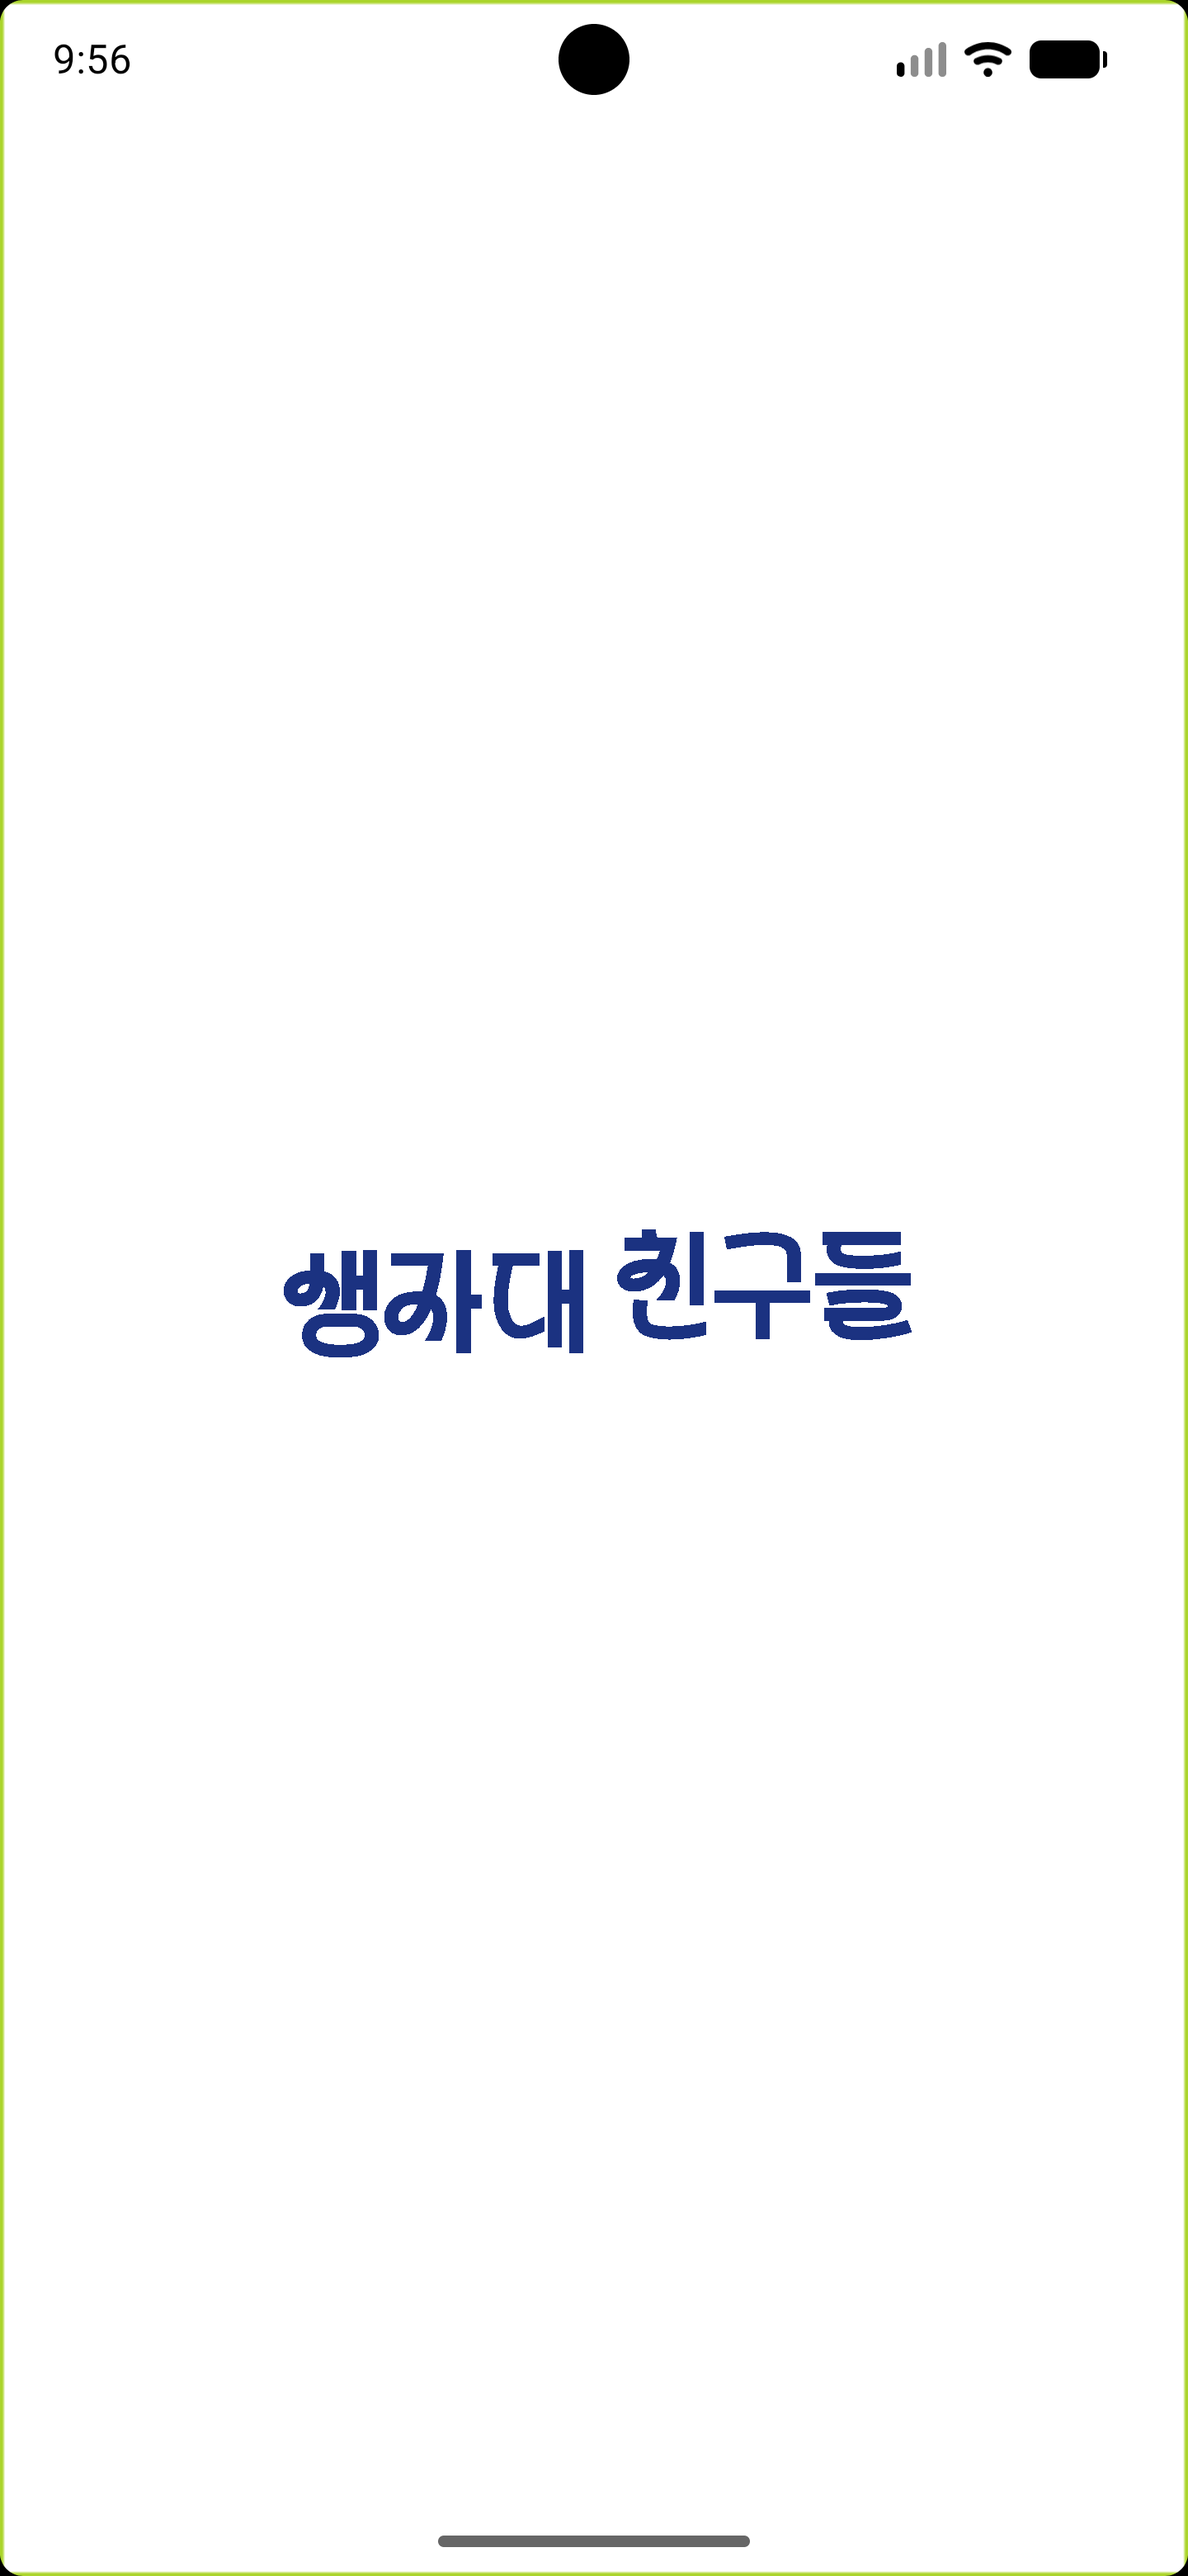
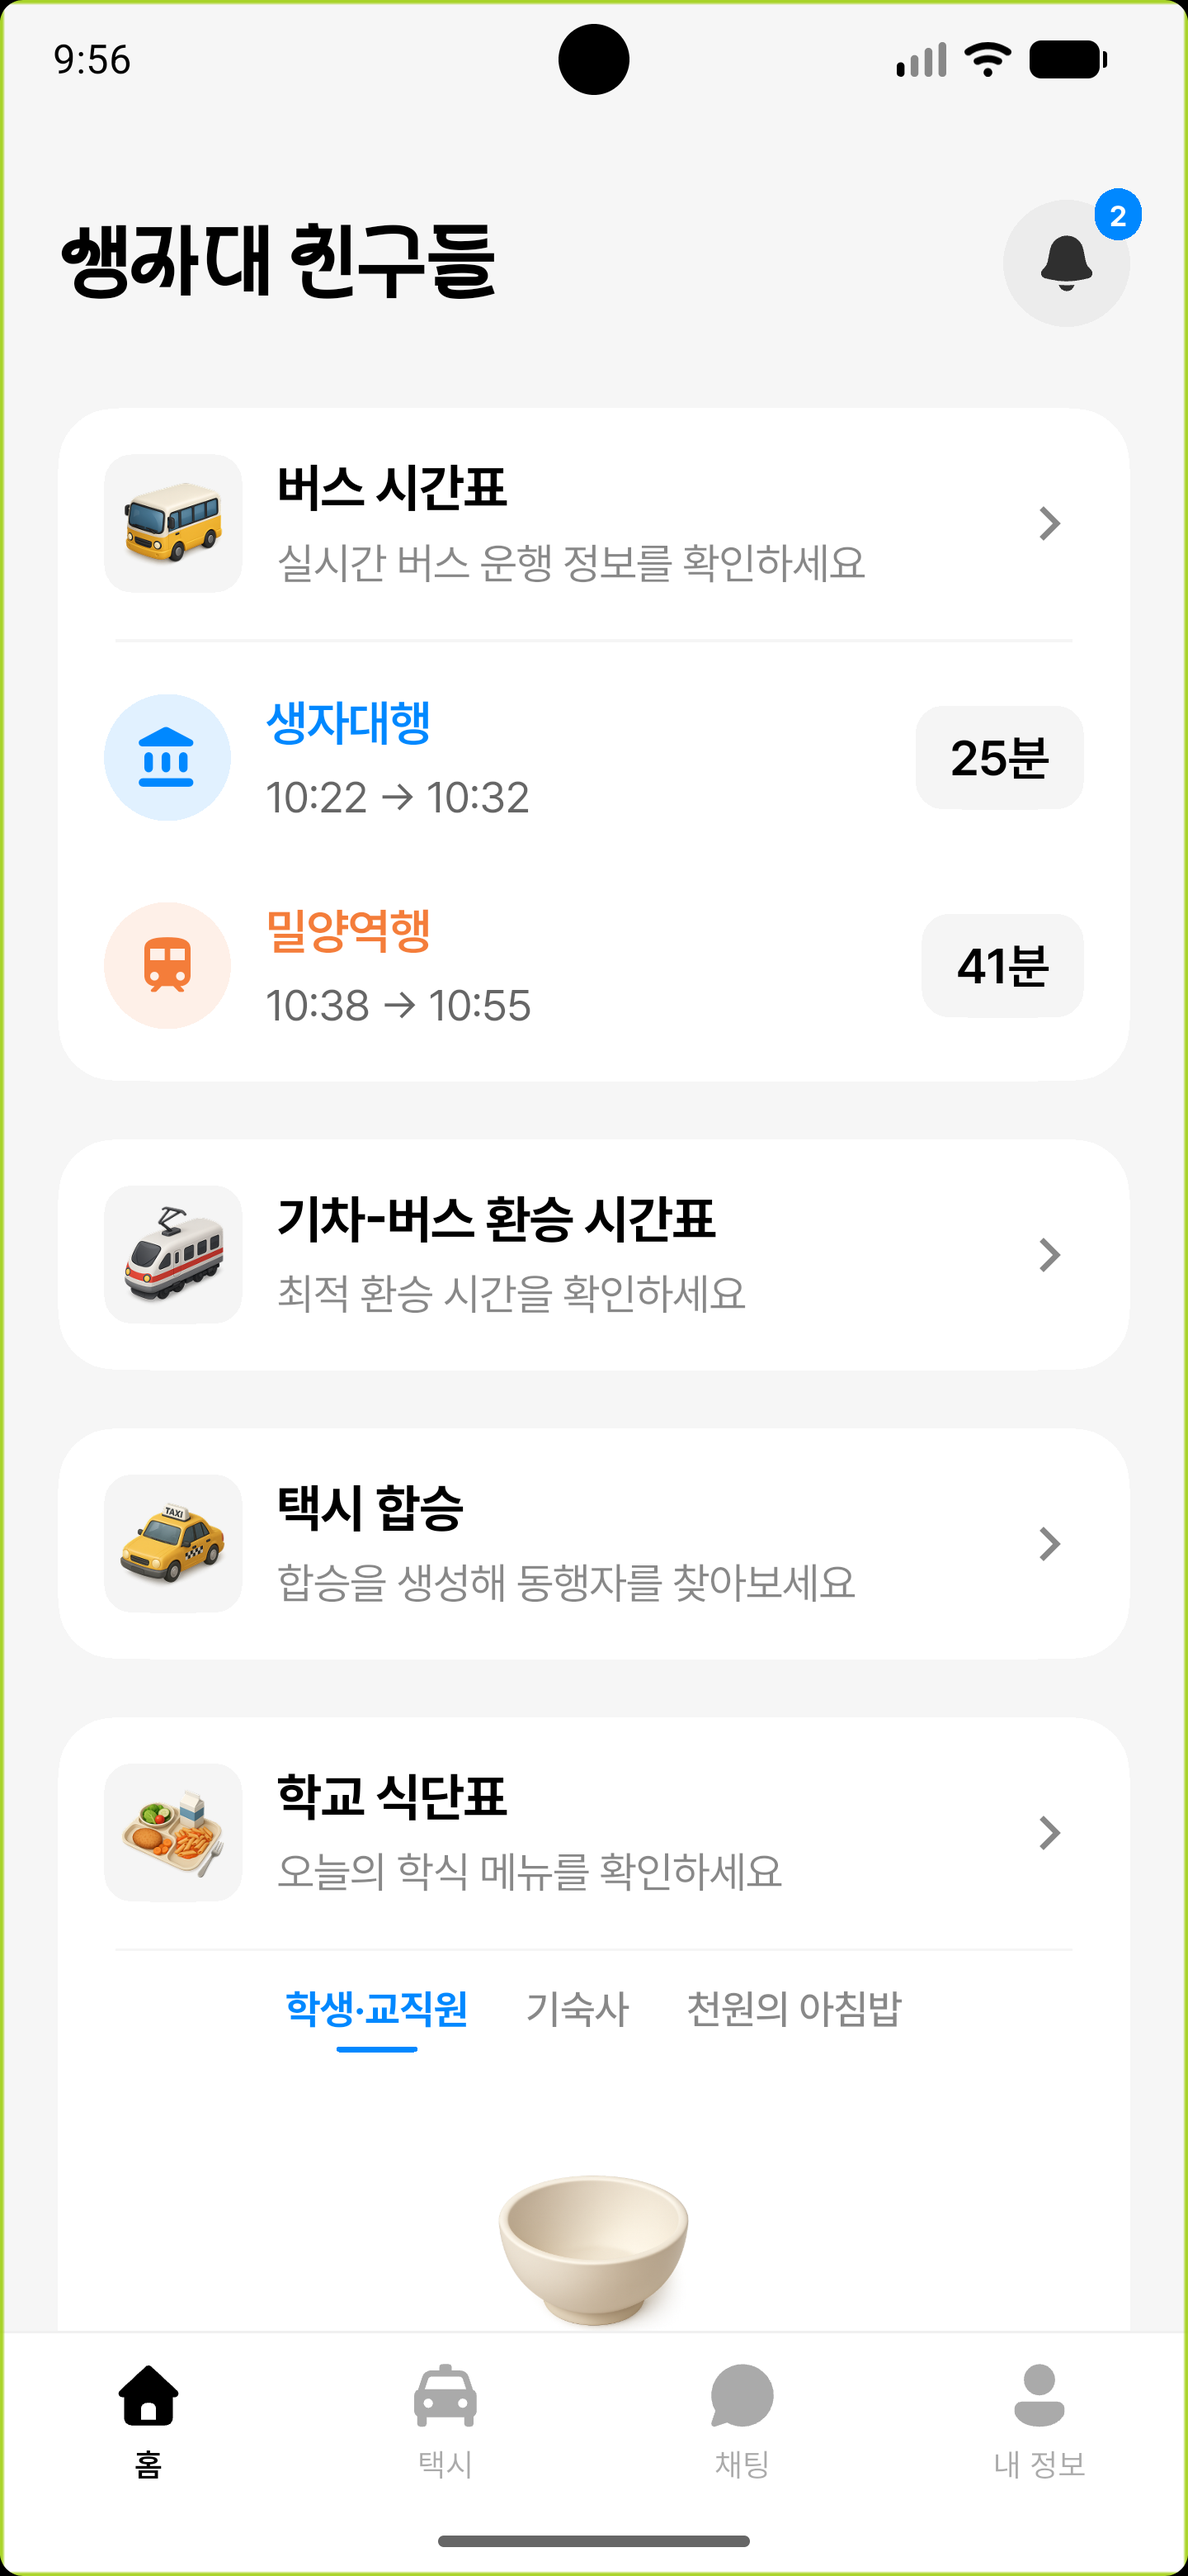
Update campus app preview images

diff --git a/assets/css/site.css b/assets/css/site.css
@@ -186,7 +186,7 @@
 
 /* Three-column project grid and cross-platform campus app project. */
 .research-project-grid{grid-template-columns:repeat(3,minmax(0,1fr))}
-.campus-app-card-visual{display:grid;grid-template-columns:repeat(3,minmax(0,1fr));gap:7px;width:100%;height:155px;overflow:hidden;background:#f8fafc;padding:8px;border-radius:5px}
+.campus-app-card-visual{display:grid;grid-template-columns:repeat(2,minmax(0,1fr));gap:7px;width:100%;height:155px;overflow:hidden;background:#f8fafc;padding:8px;border-radius:5px}
 .research-project-grid .research-thumb .campus-app-card-visual img{width:100%;height:139px;max-height:139px;object-fit:cover;object-position:top;border-radius:4px;box-shadow:0 1px 5px #0f172a20}
 .campus-app-gallery{display:grid;grid-template-columns:repeat(4,minmax(0,1fr));gap:20px;margin:26px 0 38px}
 .campus-app-gallery figure{margin:0;min-width:0}

diff --git a/index.md b/index.md
@@ -9,7 +9,7 @@ description: "Personal Website"
 <div class="home-shell">
 <table class="profile-table" role="presentation"><tbody><tr><td class="profile-copy"><h1 class="name">Seokyung Park</h1><p>I am an M.S. student in <strong>Bio-Industrial Machinery Engineering</strong> at <a href="https://www.pusan.ac.kr/eng/Main.do">Pusan National University</a>, working in the <a href="https://pass.pusan.ac.kr/">Precision Agriculture and Smart Sensing System Lab.</a> I expect to graduate in <strong>February 2027</strong>. I received my B.S. in <strong>Plant Bioscience</strong>, with a minor in <strong>Bio-Industrial Machinery Engineering</strong>, from Pusan National University in 2025.</p><p>My research focuses on <strong>image-based analysis and sensing for agricultural applications</strong>, with my <strong>M.S. thesis research in plant phenotyping</strong> connecting UAV canopy maps with close-range observations of soybean plants and pods. My current work includes hyperspectral assessment of tomato damage and spatial analysis of greenhouse environmental measurements. I also have hands-on experience integrating <strong>sensors and data acquisition with robotic systems</strong>, including robotic grippers and quadruped platforms. Building on these skills, I aim to use imaging and sensing data to quantify crop traits and study their relationships with growing conditions.</p><div class="profile-text-links"><p><strong>Curriculum Vitae:</strong> <a href="/assets/documents/Seokyung_Park_CV.pdf" download="Seokyung_Park_CV.pdf">Download</a></p><p>🎓 <a href="https://scholar.google.com/citations?user=q-XZT6gAAAAJ&amp;hl=ko&amp;oi=ao" target="_blank" rel="noopener">Google Scholar</a></p><p>✉ <a href="mailto:seokyung.park@pusan.ac.kr">seokyung.park@pusan.ac.kr</a></p></div></td><td class="profile-photo-cell"><a href="/assets/images/seokyung-park-portrait.jpg?v=20261014"><img class="profile-portrait profile-portrait-outdoors" src="/assets/images/seokyung-park-portrait.jpg?v=20261014" alt="Portrait of Seokyung Park" width="552" height="659" fetchpriority="high"></a></td></tr></tbody></table>
 </div><div class="home-research-band"><div class="home-shell">
-<section id="research"><h2>Research Projects</h2><p>I develop and evaluate sensing systems for crops, field environments and agricultural structures. The projects below combine experimental measurements with data analysis and physical modelling.</p><div class="research-project-grid" aria-label="Research projects"><article class="research-project-card"><div class="research-thumb"><a href="/research/quadruped-research/"><img src="/assets/images/greenhouse-sensing-platform.png" alt="Quadruped robot with sensors at two canopy heights" loading="lazy"></a></div><div class="research-summary"><h3><a class="papertitle" href="/research/quadruped-research/">01. Quadruped robots for agricultural sensing</a></h3><p>① <a href="/research/quadruped-research/#greenhouse">greenhouse</a><br>② <a href="/research/quadruped-research/#reservoir">reservoirs</a><br>③ <a href="/research/quadruped-research/#phenotyping">phenotyping (M.S. Thesis Research)</a></p><p>Quadruped sensing for greenhouse mapping and reservoir surveys, with M.S. thesis research on multi-scale soybean phenotyping using UAV imagery and ground RGB-D observations.</p></div></article><article class="research-project-card"><div class="research-thumb"><a href="/research/robotic-harvesting/"><img src="/assets/images/tomato-platform-compression.png" alt="Experimental platform with real-time force sensing and representative compression traces for S3, S5, S7 and S9" loading="lazy"></a></div><div class="research-summary"><h3><a class="papertitle" href="/research/robotic-harvesting/">02. Speed-Dependent Control of Robotic Gripper for Tomato Harvesting to Minimise Compression-Induced Damage</a></h3><p>Investigating how gripping speed affects delayed tomato damage using force measurements and hyperspectral imaging.</p></div></article><article class="research-project-card"><div class="research-thumb"><a href="/research/airdome-foundation/"><img src="/assets/images/soil-plastic-zones.png" alt="Figure 5: soil plastic zones for different X-Pile wing lengths" loading="lazy"></a></div><div class="research-summary"><h3><a class="papertitle" href="/research/airdome-foundation/">03. Analysis of uplift resistance characteristics of expandable piles in sandy soil with varying wing inclination and dimensions</a></h3><p>Using finite-element simulations to evaluate how wing length and angle affect pile uplift resistance in sandy soil.</p></div></article><article class="research-project-card"><div class="research-thumb"><a href="/research/airdome-sensing/"><span class="sensing-card-visual"><img src="/assets/images/airdome-system-figure.png" alt="Sensor placement concept" loading="lazy"><img src="/assets/images/field-load-cell.jpg" alt="Actual load-cell installation" loading="lazy"></span></a></div><div class="research-summary"><h3><a class="papertitle" href="/research/airdome-sensing/">04. Load-cell sensing for air-supported domes</a></h3><p>Measuring air-dome cable tension with load cells and recording field data using a SBC board.</p></div></article><article class="research-project-card"><div class="research-thumb"><a href="/research/campus-app-development/"><span class="campus-app-card-visual"><img src="/assets/images/campus-app/home.png" alt="Campus mobility app home screen" loading="lazy"><img src="/assets/images/campus-app/transfer-planner.png" alt="Train and campus bus transfer planner" loading="lazy"><img src="/assets/images/campus-app/taxi-sharing.png" alt="Taxi ride-sharing screen" loading="lazy"></span></a></div><div class="research-summary"><h3><a class="papertitle" href="/research/campus-app-development/">05. Campus mobility, ride-sharing and dining app development</a></h3><p>Designed and developed a cross-platform student app that combines bus and train transfer planning, real-time taxi sharing, chat, fare settlement and campus dining information.</p></div></article></div></section>
+<section id="research"><h2>Research Projects</h2><p>I develop and evaluate sensing systems for crops, field environments and agricultural structures. The projects below combine experimental measurements with data analysis and physical modelling.</p><div class="research-project-grid" aria-label="Research projects"><article class="research-project-card"><div class="research-thumb"><a href="/research/quadruped-research/"><img src="/assets/images/greenhouse-sensing-platform.png" alt="Quadruped robot with sensors at two canopy heights" loading="lazy"></a></div><div class="research-summary"><h3><a class="papertitle" href="/research/quadruped-research/">01. Quadruped robots for agricultural sensing</a></h3><p>① <a href="/research/quadruped-research/#greenhouse">greenhouse</a><br>② <a href="/research/quadruped-research/#reservoir">reservoirs</a><br>③ <a href="/research/quadruped-research/#phenotyping">phenotyping (M.S. Thesis Research)</a></p><p>Quadruped sensing for greenhouse mapping and reservoir surveys, with M.S. thesis research on multi-scale soybean phenotyping using UAV imagery and ground RGB-D observations.</p></div></article><article class="research-project-card"><div class="research-thumb"><a href="/research/robotic-harvesting/"><img src="/assets/images/tomato-platform-compression.png" alt="Experimental platform with real-time force sensing and representative compression traces for S3, S5, S7 and S9" loading="lazy"></a></div><div class="research-summary"><h3><a class="papertitle" href="/research/robotic-harvesting/">02. Speed-Dependent Control of Robotic Gripper for Tomato Harvesting to Minimise Compression-Induced Damage</a></h3><p>Investigating how gripping speed affects delayed tomato damage using force measurements and hyperspectral imaging.</p></div></article><article class="research-project-card"><div class="research-thumb"><a href="/research/airdome-foundation/"><img src="/assets/images/soil-plastic-zones.png" alt="Figure 5: soil plastic zones for different X-Pile wing lengths" loading="lazy"></a></div><div class="research-summary"><h3><a class="papertitle" href="/research/airdome-foundation/">03. Analysis of uplift resistance characteristics of expandable piles in sandy soil with varying wing inclination and dimensions</a></h3><p>Using finite-element simulations to evaluate how wing length and angle affect pile uplift resistance in sandy soil.</p></div></article><article class="research-project-card"><div class="research-thumb"><a href="/research/airdome-sensing/"><span class="sensing-card-visual"><img src="/assets/images/airdome-system-figure.png" alt="Sensor placement concept" loading="lazy"><img src="/assets/images/field-load-cell.jpg" alt="Actual load-cell installation" loading="lazy"></span></a></div><div class="research-summary"><h3><a class="papertitle" href="/research/airdome-sensing/">04. Load-cell sensing for air-supported domes</a></h3><p>Measuring air-dome cable tension with load cells and recording field data using a SBC board.</p></div></article><article class="research-project-card"><div class="research-thumb"><a href="/research/campus-app-development/"><span class="campus-app-card-visual"><img src="/assets/images/campus-app/home.png" alt="Campus app home screen" loading="lazy"><img src="/assets/images/campus-app/bus-timetable.png" alt="Campus bus timetable screen" loading="lazy"></span></a></div><div class="research-summary"><h3><a class="papertitle" href="/research/campus-app-development/">05. Campus mobility, ride-sharing and dining app development</a></h3><p>Designed and developed a cross-platform student app that combines bus and train transfer planning, real-time taxi sharing, chat, fare settlement and campus dining information.</p></div></article></div></section>
 <section id="about" class="home-about" aria-labelledby="home-about-heading"><h2 id="home-about-heading">About</h2><div class="about-degree compact-education">
 <p><strong>Pusan National University</strong></p>
 <ul>
